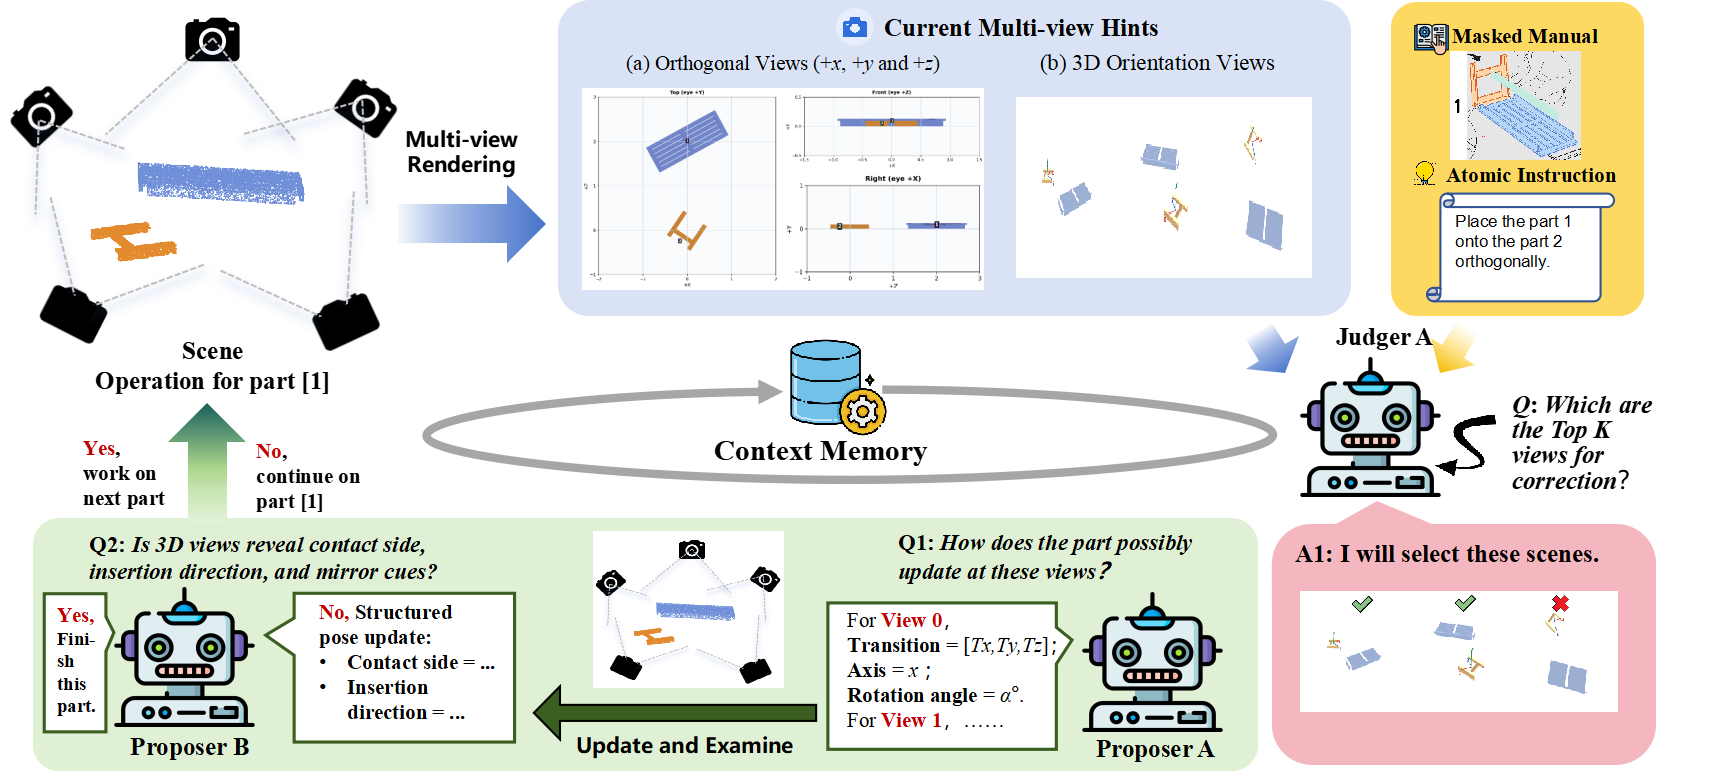
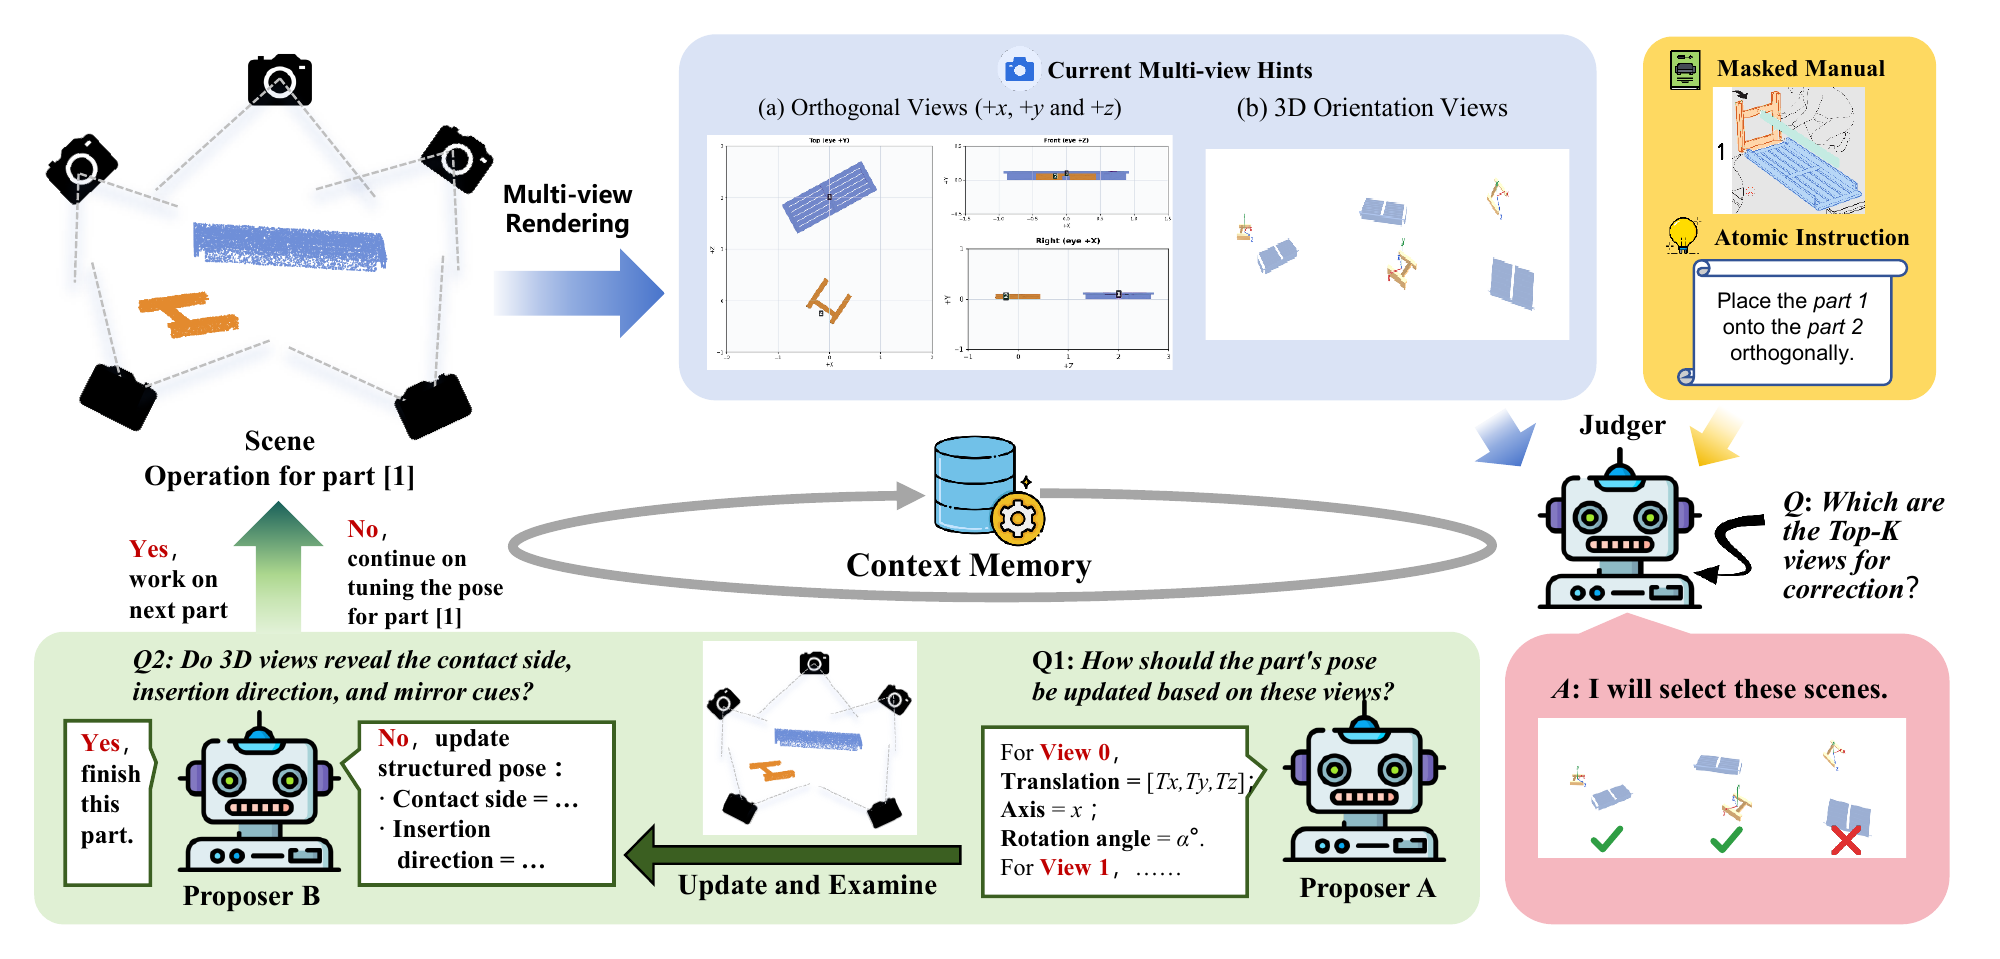
Update project figures from camera-ready manuscript

diff --git a/website/index.html b/website/index.html
@@ -1,12 +1,12 @@
 <!doctype html>
-<html lang="en"><head><meta charset="utf-8"><meta name="viewport" content="width=device-width,initial-scale=1"><title>AssemState — Manual and Physical-State-Guided Furniture Assembly</title><meta name="description" content="AssemState: zero-shot furniture assembly with anchor-guided manual reasoning and iterative physical-state feedback. Paper, code, and experimental results."><meta property="og:title" content="AssemState: Manual and Physical-State-Guided Reasoning for Zero-shot Furniture Assembly"><meta property="og:description" content="From diagrammatic manuals to assembly structure and target-free 6D pose reasoning."><meta property="og:image" content="https://togekiss0603.github.io/AssemState/assets/paper/first.png"><meta name="citation_title" content="AssemState: Manual and Physical-State-Guided Reasoning for Zero-shot Furniture Assembly"><meta name="citation_author" content="Zhiyuan Qi"><meta name="citation_author" content="Jierui Li"><meta name="citation_author" content="Yifan Shen"><meta name="citation_author" content="Cheng Qian"><meta name="citation_author" content="Jiateng Liu"><meta name="citation_publication_date" content="2026/10/06"><meta name="citation_pdf_url" content="https://arxiv.org/pdf/2610.08446"><link rel="icon" href="favicon.svg"><link rel="stylesheet" href="style.css"><script src="app.js" defer></script></head>
+<html lang="en"><head><meta charset="utf-8"><meta name="viewport" content="width=device-width,initial-scale=1"><title>AssemState — Manual and Physical-State-Guided Furniture Assembly</title><meta name="description" content="AssemState: zero-shot furniture assembly with anchor-guided manual reasoning and iterative physical-state feedback. Paper, code, and experimental results."><meta property="og:title" content="AssemState: Manual and Physical-State-Guided Reasoning for Zero-shot Furniture Assembly"><meta property="og:description" content="From diagrammatic manuals to assembly structure and target-free 6D pose reasoning."><meta property="og:image" content="https://togekiss0603.github.io/AssemState/assets/paper/first.png?v=82b30f1a0500"><meta name="citation_title" content="AssemState: Manual and Physical-State-Guided Reasoning for Zero-shot Furniture Assembly"><meta name="citation_author" content="Zhiyuan Qi"><meta name="citation_author" content="Jierui Li"><meta name="citation_author" content="Yifan Shen"><meta name="citation_author" content="Cheng Qian"><meta name="citation_author" content="Jiateng Liu"><meta name="citation_publication_date" content="2026/10/06"><meta name="citation_pdf_url" content="https://arxiv.org/pdf/2610.08446"><link rel="icon" href="favicon.svg"><link rel="stylesheet" href="style.css"><script src="app.js" defer></script></head>
 <body><a class="skip" href="#abstract">Skip to content</a>
 <nav class="nav" aria-label="Page navigation"><a href="#method">Method</a><a href="#results">Results</a><a href="#bibtex">BibTeX</a></nav>
 <header class="hero"><img class="mark" src="favicon.svg" alt="" width="54" height="54"><h1><span class="brand"><span>Assem</span>State</span>: Manual and Physical-State-Guided Reasoning for Zero-shot Furniture Assembly</h1><p class="venue">NeurIPS 2026<span class="venue-separator">·</span>PhysWorld AI</p><p class="authors"><span><a href="https://togekiss0603.github.io/">Zhiyuan Qi</a><sup>1,3,*</sup></span><span><a href="https://jrli12.github.io/">Jierui Li</a><sup>2,3,*</sup></span><span><a href="https://shenyifans.github.io/">Yifan Shen</a><sup>3</sup></span><span><a href="https://qiancheng0.github.io/">Cheng Qian</a><sup>3</sup></span><span><a href="https://lumos-jiateng.github.io/">Jiateng Liu</a><sup>3</sup></span></p><p class="affiliations"><span><sup>1</sup> Tsinghua University &nbsp; </span><span><sup>2</sup> Xidian University &nbsp; </span><span><sup>3</sup> University of Illinois Urbana-Champaign</span></p><p class="equal">* Equal contribution</p><div class="buttons"><a class="pill primary" href="https://arxiv.org/abs/2610.08446">↗ Paper</a><a class="pill" href="assets/paper/AssemState.pdf" download="AssemState.pdf">↓ PDF</a><a class="pill" href="https://github.com/togekiss0603/AssemState">⌘ Code</a><a class="pill" href="#results">▤ Results</a></div></header>
 <main>
-<section class="band teaser" aria-label="AssemState overview"><div class="container"><figure id="fig-overview"><a href="assets/paper/first.png"><img src="assets/paper/first.png" alt="AssemState overview: a furniture manual and numbered parts connect assembly structure to a current moving-part pose update." fetchpriority="high"></a><figcaption>AssemState connects diagrammatic manuals, assembly structure, and rendered physical state to study zero-shot furniture assembly.</figcaption></figure><div class="demo-video"><video controls playsinline preload="metadata" width="1920" height="1080" aria-label="AssemState demonstration video"><source src="assets/demo.mp4" type="video/mp4">Your browser does not support embedded video. <a href="assets/demo.mp4">Download the demonstration video</a>.</video></div><p class="lead">Read the manual. Recover the structure.<br><strong>Refine the next placement with after-state feedback.</strong></p></div></section>
+<section class="band teaser" aria-label="AssemState overview"><div class="container"><figure id="fig-overview"><a href="assets/paper/first.png?v=82b30f1a0500"><img src="assets/paper/first.png?v=82b30f1a0500" alt="AssemState overview: a furniture manual and numbered parts connect assembly structure to a current moving-part pose update." fetchpriority="high"></a><figcaption>AssemState connects diagrammatic manuals, assembly structure, and rendered physical state to study zero-shot furniture assembly.</figcaption></figure><div class="demo-video"><video controls playsinline preload="metadata" width="1920" height="1080" aria-label="AssemState demonstration video"><source src="assets/demo.mp4" type="video/mp4">Your browser does not support embedded video. <a href="assets/demo.mp4">Download the demonstration video</a>.</video></div><p class="lead">Read the manual. Recover the structure.<br><strong>Refine the next placement with after-state feedback.</strong></p></div></section>
 <section id="abstract"><div class="narrow"><h2>Abstract</h2><p>Multimodal large language models have made significant progress in visual understanding, but precise 3D spatial reasoning in a physical environment remains difficult. Furniture assembly requires recovering operations from diagrammatic manuals and translating semantic attachment relations into 6D pose updates. We introduce <strong>AssemState</strong>, a zero-shot framework that combines anchor-guided assembly-structure recovery with iterative after-state feedback for pose refinement.</p><p>Under the supplied numbered-step-mask protocol, AssemState improves reported assembly-tree F1 from 38.58% to 62.80% and Tree Exact Match from 28.24% to 53.92%. On 243 independently evaluated operations, three-round refinement improves GPT judge acceptance from 0.0% to 5.3% and reduces mean Chamfer distance from 5.4111 to 1.7744. Strict pose accuracy remains zero: collision, floating, mirror orientation, incomplete seating, and wrong-side attachment persist. The results reveal improvements in structure recovery and selected local pose diagnostics, together with continuing limitations in contact-level spatial reasoning.</p></div></section>
-<section class="band" id="method"><div class="container"><h2>From Manuals to Assembly Structure</h2><p class="section-intro">Ground numbered parts, identify boundary anchors, and track how subassemblies are carried across the manual.</p><figure id="fig-manual"><a href="assets/paper/second.png"><img src="assets/paper/second.png" loading="lazy" alt="Paper figure showing part grounding, anchor-guided planning, tree conversion, and the assembly-operation interface."></a><figcaption>Part naming and semantic enrichment create a shared part table. A single anchor-guided planning request reads the numbered scene and ordered step masks; a parser or text-only conversion call then produces the assembly hierarchy.</figcaption></figure><h2>Refine the Predicted After-State</h2><figure id="fig-pose"><a href="assets/paper/6D_ppl.png"><img src="assets/paper/6D_ppl.png" loading="lazy" alt="Paper diagram of iterative 6D pose proposals, rendered after-states, selection, and diagnostic feedback."></a><figcaption>For a correct current operation, the historical pose loop proposes an incremental SE(3) update, renders the resulting state, selects a candidate, and feeds the saved diagnosis into the next round. Ground-truth target poses and target-state images are not model inputs.</figcaption></figure></div></section>
+<section class="band" id="method"><div class="container"><h2>From Manuals to Assembly Structure</h2><p class="section-intro">Ground numbered parts, identify boundary anchors, and track how subassemblies are carried across the manual.</p><figure id="fig-manual"><a href="assets/paper/second.png?v=a7b2d2c986ce"><img src="assets/paper/second.png?v=a7b2d2c986ce" loading="lazy" alt="Paper figure showing part grounding, anchor-guided planning, tree conversion, and the assembly-operation interface."></a><figcaption>Part naming and semantic enrichment create a shared part table. A single anchor-guided planning request reads the numbered scene and ordered step masks; a parser or text-only conversion call then produces the assembly hierarchy.</figcaption></figure><h2>Refine the Predicted After-State</h2><figure id="fig-pose"><a href="assets/paper/6D_ppl.png?v=afe7eb8f47d5"><img src="assets/paper/6D_ppl.png?v=afe7eb8f47d5" loading="lazy" alt="Paper diagram of iterative 6D pose proposals, rendered after-states, selection, and diagnostic feedback."></a><figcaption>For a correct current operation, the historical pose loop proposes an incremental SE(3) update, renders the resulting state, selects a candidate, and feeds the saved diagnosis into the next round. Ground-truth target poses and target-state images are not model inputs.</figcaption></figure></div></section>
 <section id="examples"><div class="container"><h2>A Closer Look at the Inputs</h2><p class="section-intro">Five illustrative inputs from Bench/applaro, matching the files consumed by the released planner.</p><div class="tabs" role="group" aria-label="Example input"><button data-sample="scene" aria-pressed="true">Numbered scene</button><button data-sample="rotation" aria-pressed="false">Another view</button><button data-sample="manual" aria-pressed="false">Manual preview</button><button data-sample="step0" aria-pressed="false">Step 1 mask</button><button data-sample="step1" aria-pressed="false">Step 2 mask</button></div><div class="sample-layout"><a id="sample-link" class="sample-visual" href="assets/scene.png"><img id="sample-image" src="assets/scene.png" loading="lazy" alt="Four scattered bench parts labeled 0, 1, 2 and 3"></a></div></div></section>
 <section class="band" id="results"><div class="container"><h2>Experimental Results</h2><p class="section-intro">Structure recovery, pose estimation, release validation, and additional analyses. Values below follow the paper.</p>
 <div class="table-wrap"><table id="table-tree" data-paper-label="tab:tree_generation"><caption>Table 1 · Assembly-structure recovery (%)</caption><thead><tr><th scope="col">Method</th><th scope="col">Precision ↑</th><th scope="col">Recall ↑</th><th scope="col">F1 ↑</th><th scope="col">Tree EM ↑</th></tr></thead><tbody><tr><th scope="row">SingleStep</th><td>10.78</td><td>10.78</td><td>10.78</td><td>10.78</td></tr><tr><th scope="row">GeoCluster</th><td>13.37</td><td>13.36</td><td>13.15</td><td>3.92</td></tr><tr><th scope="row">Manual2Skill</th><td>37.45</td><td>36.41</td><td>36.83</td><td>27.45</td></tr><tr><th scope="row">Manual2Skill++</th><td>—</td><td>—</td><td>38.58</td><td>28.24</td></tr><tr><th scope="row">Ours w/o Anchors</th><td>57.39</td><td>55.90</td><td>56.20</td><td>45.10</td></tr><tr class="highlight"><th scope="row">AssemState</th><td><strong>62.34</strong></td><td><strong>62.46</strong></td><td><strong>62.80</strong></td><td><strong>53.92</strong></td></tr></tbody></table></div><p class="note">Manuscript-reported scores; full historical tree predictions are unavailable. The reported F1 (62.80) exceeds the mean of P/R (62.40), which requires clarification of the original aggregation. The release preserves the paper values without claiming to have reproduced them.</p>
@@ -19,9 +19,9 @@
 <div class="table-wrap"><table class="text-table trace-table" id="table-trace" data-paper-label="tab:pose_trace"><caption>Table A2 · Bench/applaro operation 0: three-round failure trace</caption><thead><tr><th scope="col">Round</th><th scope="col">Incoming feedback</th><th scope="col">Incremental update</th><th scope="col">Saved after-state diagnosis</th></tr></thead><tbody><tr><th scope="row">0</th><td>None</td><td>Δt = [0, 0, +1.50]; identity rotation</td><td>Rejected: wrong_side; contact and orientation incorrect. Move to a short end and rotate upright.</td></tr><tr><th scope="row">1</th><td>Previous wrong_side diagnosis and residual direction</td><td>Δt = [0, 0, −0.45]; +90° about world Y</td><td>Rejected: wrong_side persists; separated from panel end and not upright/perpendicular.</td></tr><tr><th scope="row">2</th><td>Updated wrong_side diagnosis and contact/orientation hints</td><td>Δt = [0, 0, +0.40]; +90° about world X</td><td>Rejected: wrong_side; still along the long side, not seated flush on an end face.</td></tr></tbody></table></div><p class="note">Moving part 2 (side frame), fixed part 1 (seat panel). All three rounds remain rejected. Ground-truth rescue constructs later context only; it is not a successful predicted placement.</p>
 <div class="table-wrap"><table id="table-config" data-paper-label="tab:pose_trace_config"><caption>Table A3 · Client settings for the preserved trace</caption><thead><tr><th scope="col">Role</th><th scope="col">Model ID</th><th scope="col">Max image side</th><th scope="col">Reasoning effort</th></tr></thead><tbody><tr><th scope="row">Proposer</th><td>gpt-5.2</td><td>768</td><td>low</td></tr><tr><th scope="row">Selector</th><td>gpt-5.2</td><td>512</td><td>minimal</td></tr><tr><th scope="row">Judge</th><td>gpt-5.2</td><td>512</td><td>minimal</td></tr></tbody></table></div><p class="note">Completion-token caps: proposer 2048; selector/judge 512. Image detail: high. One candidate per round, at most three rounds. These settings describe the retained trace, not every aggregate experiment.</p>
 <h3>Additional Experimental Analyses</h3>
-<figure id="fig-tree-complexity"><a href="assets/paper/fig03_hierarchical_action_complexity.png"><img src="assets/paper/fig03_hierarchical_action_complexity.png" loading="lazy" alt="Reference-tree branching and procedural unit counts across 102 products."></a><figcaption>85/102 products include multiway merges; 18/102 include merges of multiple subassemblies. There are 393 manual steps, 404 reference-tree merges, and 652 binary-merge equivalents. Binary equivalents are combinatorial counts, not verified robot actions.</figcaption></figure><figure id="fig-release-sensitivity"><a href="assets/paper/fig05_release_thresholds.png"><img src="assets/paper/fig05_release_thresholds.png" loading="lazy" alt="Sensitivity of release stability to jointly scaled drift, drop, and rotation thresholds."></a><figcaption>Post-hoc sensitivity analysis of stored release records. Thresholds are jointly scaled around the reported operating point; no new physical simulation is claimed.</figcaption></figure><figure id="fig-reported-failures"><a href="assets/paper/fig07_reported_failures.png"><img src="assets/paper/fig07_reported_failures.png" loading="lazy" alt="Model-reported error labels among rejected GPT and Haiku self-check operations."></a><figcaption>Saved diagnostic labels for rejected operations: GPT-5.2 N = 230; Haiku 4.5 N = 215. Labels come from the model-based judge and are not human-verified error frequencies.</figcaption></figure>
+<figure id="fig-tree-complexity"><a href="assets/paper/fig03_hierarchical_action_complexity.png?v=6d18465962e2"><img src="assets/paper/fig03_hierarchical_action_complexity.png?v=6d18465962e2" loading="lazy" alt="Reference-tree branching and procedural unit counts across 102 products."></a><figcaption>85/102 products include multiway merges; 18/102 include merges of multiple subassemblies. There are 393 manual steps, 404 reference-tree merges, and 652 binary-merge equivalents. Binary equivalents are combinatorial counts, not verified robot actions.</figcaption></figure><figure id="fig-release-sensitivity"><a href="assets/paper/fig05_release_thresholds.png?v=bf295c4579a8"><img src="assets/paper/fig05_release_thresholds.png?v=bf295c4579a8" loading="lazy" alt="Sensitivity of release stability to jointly scaled drift, drop, and rotation thresholds."></a><figcaption>Post-hoc sensitivity analysis of stored release records. Thresholds are jointly scaled around the reported operating point; no new physical simulation is claimed.</figcaption></figure><figure id="fig-reported-failures"><a href="assets/paper/fig07_reported_failures.png?v=876db6617c2f"><img src="assets/paper/fig07_reported_failures.png?v=876db6617c2f" loading="lazy" alt="Model-reported error labels among rejected GPT and Haiku self-check operations."></a><figcaption>Saved diagnostic labels for rejected operations: GPT-5.2 N = 230; Haiku 4.5 N = 215. Labels come from the model-based judge and are not human-verified error frequencies.</figcaption></figure>
 </div></section>
-<section id="failures"><div class="container"><h2>Where Spatial Reasoning Still Fails</h2><p class="section-intro">A plausible coarse placement can still choose the wrong contact side, mirror orientation, or seating relation.</p><figure id="fig-failures"><a href="assets/paper/wrong.png"><img src="assets/paper/wrong.png" loading="lazy" alt="Paper examples of collision, floating, mirror, incomplete seating, and wrong-side placement failures."></a><figcaption>Representative final self-check failures from the paper. After-state feedback improves selected diagnostics, but contact-accurate target-free assembly remains unresolved.</figcaption></figure></div></section>
+<section id="failures"><div class="container"><h2>Where Spatial Reasoning Still Fails</h2><p class="section-intro">A plausible coarse placement can still choose the wrong contact side, mirror orientation, or seating relation.</p><figure id="fig-failures"><a href="assets/paper/wrong.png?v=1c4cb5852baa"><img src="assets/paper/wrong.png?v=1c4cb5852baa" loading="lazy" alt="Paper examples of collision, floating, mirror, incomplete seating, and wrong-side placement failures."></a><figcaption>Representative final self-check failures from the paper. After-state feedback improves selected diagnostics, but contact-accurate target-free assembly remains unresolved.</figcaption></figure></div></section>
 
 
 <section class="band" id="bibtex"><div class="narrow"><h2>BibTeX</h2><pre><code id="citation">@misc{qi2026assemstate,
